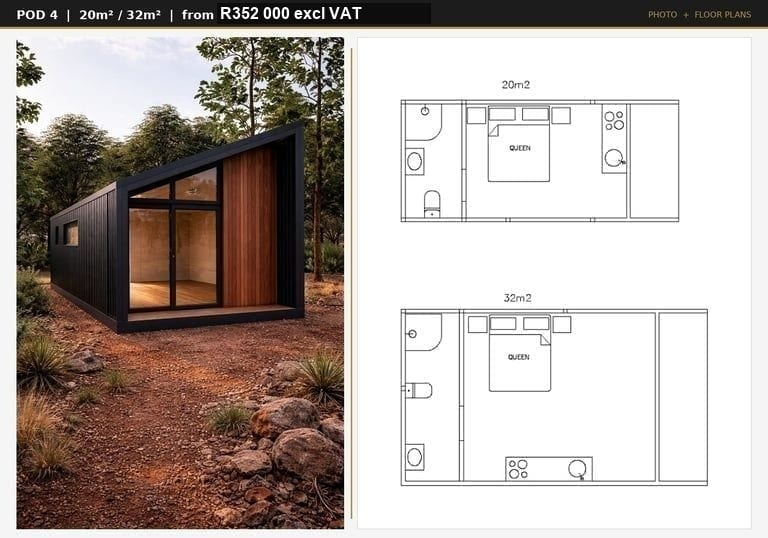
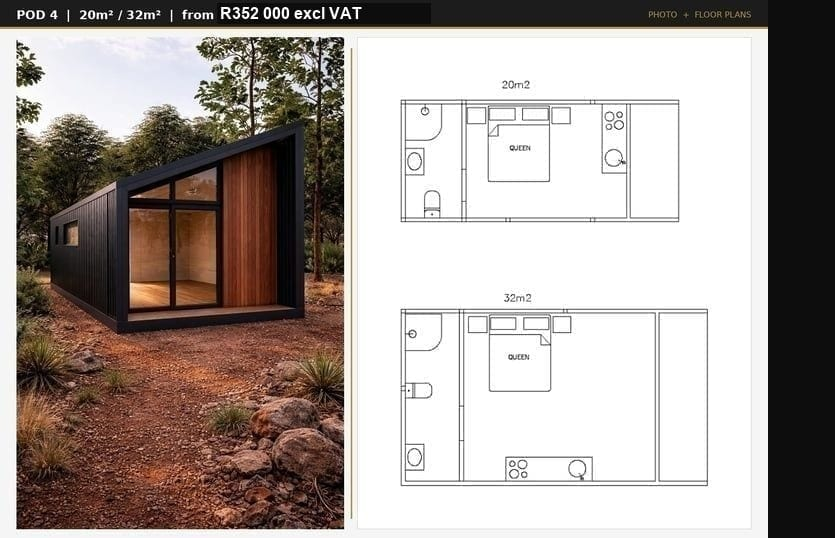
Fix cropped header text on Pod 2/4/5 cards
.pod-card > img forces aspect-ratio: 1440/928 with object-fit: cover
sitewide. Pod 2 (768x412), Pod 4 (768x538), and Pod 5 (768x440) don't
match that ratio, so the browser was cropping their edges - slicing
into the price header text baked into each image (most visible on
Pod 2, where "POD 2 |" and part of "PHOTO + FLOOR PLANS" were cut off).
Pad each image's canvas to the exact 1440/928 ratio so cover has
nothing left to crop, and update the matching width/height attributes.

diff --git a/asad-pods.html b/asad-pods.html
@@ -179,7 +179,7 @@
           </div>
 
           <div class="pod-card">
-            <img width="768" height="412" src="/images/shared/pod2_photo_floorplans-cw8vsw9kvxtctviw.jpg" alt="Pod 2 accommodation pod — photo and floor plan, 25m², South Africa">
+            <img width="768" height="495" src="/images/shared/pod2_photo_floorplans-cw8vsw9kvxtctviw.jpg" alt="Pod 2 accommodation pod — photo and floor plan, 25m², South Africa">
             <div class="pod-card-body">
               <h3>Pod 2</h3>
               <div class="pod-card-icons">
@@ -218,7 +218,7 @@
           </div>
 
           <div class="pod-card">
-            <img width="768" height="538" src="/images/shared/pod4_photo_floorplans-s8thytipptphzrui.jpg" alt="Pod 4 accommodation pod — photo and floor plan, 24m², South Africa" loading="lazy">
+            <img width="835" height="538" src="/images/shared/pod4_photo_floorplans-s8thytipptphzrui.jpg" alt="Pod 4 accommodation pod — photo and floor plan, 24m², South Africa" loading="lazy">
             <div class="pod-card-body">
               <h3>Pod 4</h3>
               <div class="pod-card-icons">
@@ -237,7 +237,7 @@
           </div>
 
           <div class="pod-card">
-            <img width="768" height="440" src="/images/shared/pod5_photo_floorplans-hjv0wjrcq3wlxrd9.jpg" alt="Pod 5 accommodation pod — photo and floor plan, 17m², South Africa" loading="lazy">
+            <img width="768" height="495" src="/images/shared/pod5_photo_floorplans-hjv0wjrcq3wlxrd9.jpg" alt="Pod 5 accommodation pod — photo and floor plan, 17m², South Africa" loading="lazy">
             <div class="pod-card-body">
               <h3>Pod 5</h3>
               <div class="pod-card-icons">
